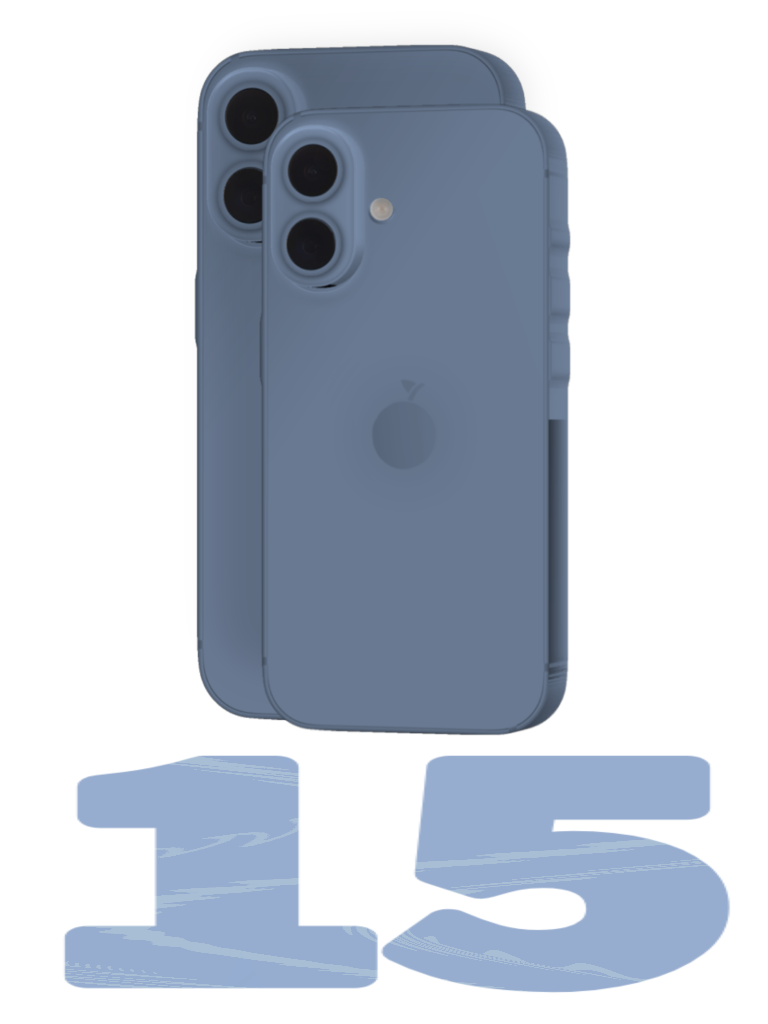
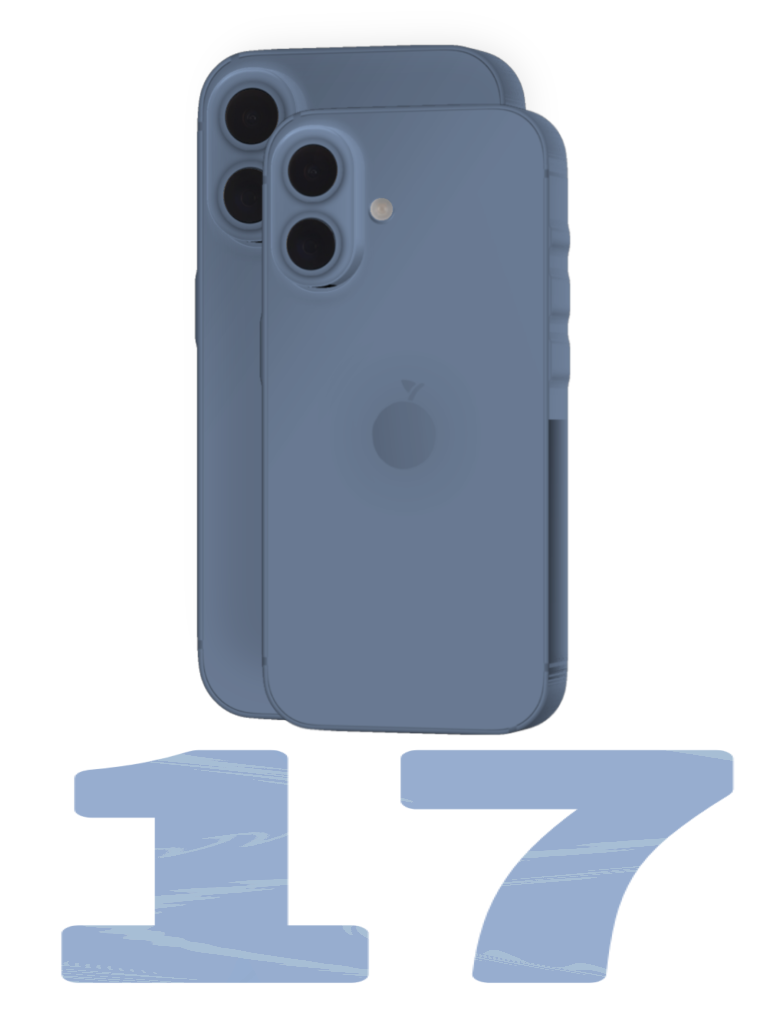
Add files via upload

Changed region(s): [[0.0625, 0.7188, 0.9688, 0.9688], [0.0938, 0.7188, 0.4062, 0.9062]]

diff --git a/mexericaphone.html b/mexericaphone.html
@@ -44,16 +44,16 @@
         </div>
 
         <div id="config-panel">
-            <h1 class="fade" id="configure">Configure seu Mexerica Phone 15 Pro</h1>
+            <h1 class="fade" id="configure">Configure seu Mexerica Phone 17 Pro</h1>
             <div class="option-group model-group">
                 <h2>Tamanho.</h2>
                 <p>Qual Mexerica e adequado pra você?</p>
                 <div class="model-option selected" data-model="pro" data-price="4999">
-                    <p>MexericaPhone 15 Pro</p>
+                    <p>MexericaPhone 17 Pro</p>
                     <span>R$ 4999</span>
                 </div>
                 <div class="model-option" data-model="promax" data-price="5999">
-                    <p>MexericaPhone 15 Pro Max</p>
+                    <p>MexericaPhone 17 Pro Max</p>
                     <span>R$ 5999</span>
                 </div>
             </div>
@@ -154,8 +154,8 @@
                 <thead>
                     <tr>
                         <th>Especificação</th>
-                        <th>Mexerica Phone 15 Pro</th>
-                        <th>Mexerica Phone 15 Pro Max</th>
+                        <th>Mexerica Phone 17 Pro</th>
+                        <th>Mexerica Phone 17 Pro Max</th>
                     </tr>
                 </thead>
                 <tbody>

diff --git a/mexericaphonem.html b/mexericaphonem.html
@@ -44,16 +44,16 @@
         </div>
 
         <div id="config-panel">
-            <h1 class="fade" id="configure">Configure seu Mexerica Phone 15</h1>
+            <h1 class="fade" id="configure">Configure seu Mexerica Phone 17</h1>
             <div class="option-group model-group">
                 <h2>Tamanho.</h2>
                 <p>Qual Mexerica e adequado pra você?</p>
                 <div class="model-option selected" data-model="pro" data-price="3999">
-                    <p>MexericaPhone 15</p>
+                    <p>MexericaPhone 17</p>
                     <span>R$ 3999</span>
                 </div>
                 <div class="model-option" data-model="promax" data-price="4999">
-                    <p>MexericaPhone 15 Plus</p>
+                    <p>MexericaPhone 17 Plus</p>
                     <span>R$ 4999</span>
                 </div>
             </div>
@@ -148,8 +148,8 @@
                 <thead>
                     <tr>
                         <th>Especificação</th>
-                        <th>Mexerica Phone 15</th>
-                        <th>Mexerica Phone 15 Plus</th>
+                        <th>Mexerica Phone 17</th>
+                        <th>Mexerica Phone 17 Plus</th>
                     </tr>
                 </thead>
                 <tbody>

diff --git a/script.js b/script.js
@@ -142,9 +142,9 @@ function filterOptionsByModel() {
     memoryOptions.forEach(opt => opt.classList.remove("disabled"));
     storageOptions.forEach(opt => opt.classList.remove("disabled"));
     if (modelType == "promax") {
-        ConfigureText.textContent = "Configure seu Mexerica Phone 15 Pro Max";
+        ConfigureText.textContent = "Configure seu Mexerica Phone 17 Pro Max";
     } else if(modelType == "pro") {
-        ConfigureText.textContent = "Configure seu Mexerica Phone 15 Pro";
+        ConfigureText.textContent = "Configure seu Mexerica Phone 17 Pro";
     }
     if (modelType !== "promax") {
         // Esconde memória de 8 GB
@@ -251,9 +251,9 @@ $('#add-to-cart').on('click', function() {
     const finalPrice = currentPrice;
    let modeling = 0
    if(selectedModel == 'pro') {
-       modeling = 'MexericaPhone 15 Pro';
+       modeling = 'MexericaPhone 17 Pro';
    } else if(selectedModel == 'promax') {
-       modeling = 'MexericaPhone 15 Pro Max';
+       modeling = 'MexericaPhone 17 Pro Max';
    } 
     // 2. Criar objeto de pedido
     const orderDetails = {

diff --git a/scriptm.js b/scriptm.js
@@ -144,9 +144,9 @@ function filterOptionsByModel() {
     memoryOptions.forEach(opt => opt.classList.remove("disabled"));
     storageOptions.forEach(opt => opt.classList.remove("disabled"));
     if (modelType == "promax") {
-        ConfigureText.textContent = "Configure seu Mexerica Phone 15 Plus";
+        ConfigureText.textContent = "Configure seu Mexerica Phone 17 Plus";
     } else if(modelType == "pro") {
-        ConfigureText.textContent = "Configure seu Mexerica Phone 15";
+        ConfigureText.textContent = "Configure seu Mexerica Phone 17";
     }
     if (modelType !== "promax") {
         // Esconde memória de 8 GB
@@ -253,9 +253,9 @@ $('#add-to-cart').on('click', function() {
     const finalPrice = currentPrice;
    let modeling = 0
    if(selectedModel == 'pro') {
-       modeling = 'MexericaPhone 15';
+       modeling = 'MexericaPhone 17';
    } else if(selectedModel == 'promax') {
-       modeling = 'MexericaPhone 15 Plus';
+       modeling = 'MexericaPhone 17 Plus';
    } 
     // 2. Criar objeto de pedido
     const orderDetails = {

diff --git a/mexericaphonenew.html b/mexericaphonenew.html
@@ -13,7 +13,7 @@
   <section class="hero">
     <img src="poster_mxphone_new.png" alt="Mexerica Phone New" class="hero-img">
     <div class="hero-content">
-      <h1>Mexerica Phone 15</h1>
+      <h1>Mexerica Phone 17</h1>
       <p>A tradição ficou ainda mais poderosa.</p>
       <a href="mexericaphone.html" class="btn-primary">Comprar</a>
     </div>
@@ -22,8 +22,8 @@
   <!-- Comparativo Pro / Max -->
   <section class="poster-section">
     <div class="poster">
-      <img src="poster_mxphone_pro_max.png" alt="Mexerica Phone 15 Pro e Pro Max">
-      <h2>Mexerica Phone 15 Pro / Pro Max</h2>
+      <img src="poster_mxphone_pro_max.png" alt="Mexerica Phone 17 Pro e Pro Max">
+      <h2>Mexerica Phone 17 Pro / Pro Max</h2>
       <p>O topo da tradição, feito para quem exige o máximo.</p>
     </div>
   </section>

diff --git a/mexericaphonenewm.html b/mexericaphonenewm.html
@@ -13,7 +13,7 @@
   <section class="hero">
     <img src="poster_mxphone_newm.png" alt="Mexerica Phone New" class="hero-img">
     <div class="hero-content">
-      <h1>Mexerica Phone 15</h1>
+      <h1>Mexerica Phone 17</h1>
       <p>A tradição ficou ainda mais poderosa.</p>
       <a href="mexericaphonem.html" class="btn-primary">Comprar</a>
     </div>
@@ -22,8 +22,8 @@
   <!-- Comparativo Pro / Max -->
   <section class="poster-section">
     <div class="poster">
-      <img src="poster_mxphone_pro_maxm.png" alt="Mexerica Phone 15 Pro e Pro Max">
-      <h2>Mexerica Phone 15 / Plus</h2>
+      <img src="poster_mxphone_pro_maxm.png" alt="Mexerica Phone 17 Pro e Pro Max">
+      <h2>Mexerica Phone 17 / Plus</h2>
       <p>O topo da tradição, feito para quem exige o máximo.</p>
     </div>
   </section>

diff --git a/catalog.js b/catalog.js
@@ -1,6 +1,6 @@
 const products = [
   {
-    name: "Mexerica Phone 15 Pro Max",
+    name: "Mexerica Phone 17 Pro Max",
     price: 5999,
     colors: ["#363636", "#FF8C00", "#F5F5F5"],
     redirect: "mexericaphone.html",
@@ -12,7 +12,7 @@ const products = [
     newRedirect: "mexericaphonenew.html"
   },
   {
-    name: "Mexerica Phone 15 Plus",
+    name: "Mexerica Phone 17 Plus",
     price: 4999,
     colors: ["#A9B689","#DFCEEA","#96AED1", "#353839", "#F5F5F5"],
     redirect: "mexericaphonem.html",

diff --git a/checkoutm.html b/checkoutm.html
@@ -122,7 +122,7 @@
             <img id="product-image-checkout" src="" alt="Imagem do Mexerica Phone">
             
             <div id="order-summary">
-                <p>Produto: <strong id="summary-model">Mexerica Phone 15 Plus</strong></p>
+                <p>Produto: <strong id="summary-model">Mexerica Phone 17 Plus</strong></p>
                 <p id="summary-color">Cor: </p>
                 <p id="summary-storage">Armazenamento: </p>
                 <p id="summary-memory">Memória RAM: </p>

diff --git a/checkout.html b/checkout.html
@@ -123,7 +123,7 @@
         <img id="product-image-checkout" src="" alt="Imagem do Mexerica Phone">
         
         <div id="order-summary">
-            <p>Produto: <strong id="summary-model">Mexerica Phone 15 Pro Max</strong></p>
+            <p>Produto: <strong id="summary-model">Mexerica Phone 17 Pro Max</strong></p>
             <p id="summary-color">Cor: </p>
             <p id="summary-storage">Armazenamento: </p>
             <p id="summary-memory">Memória RAM: </p>
